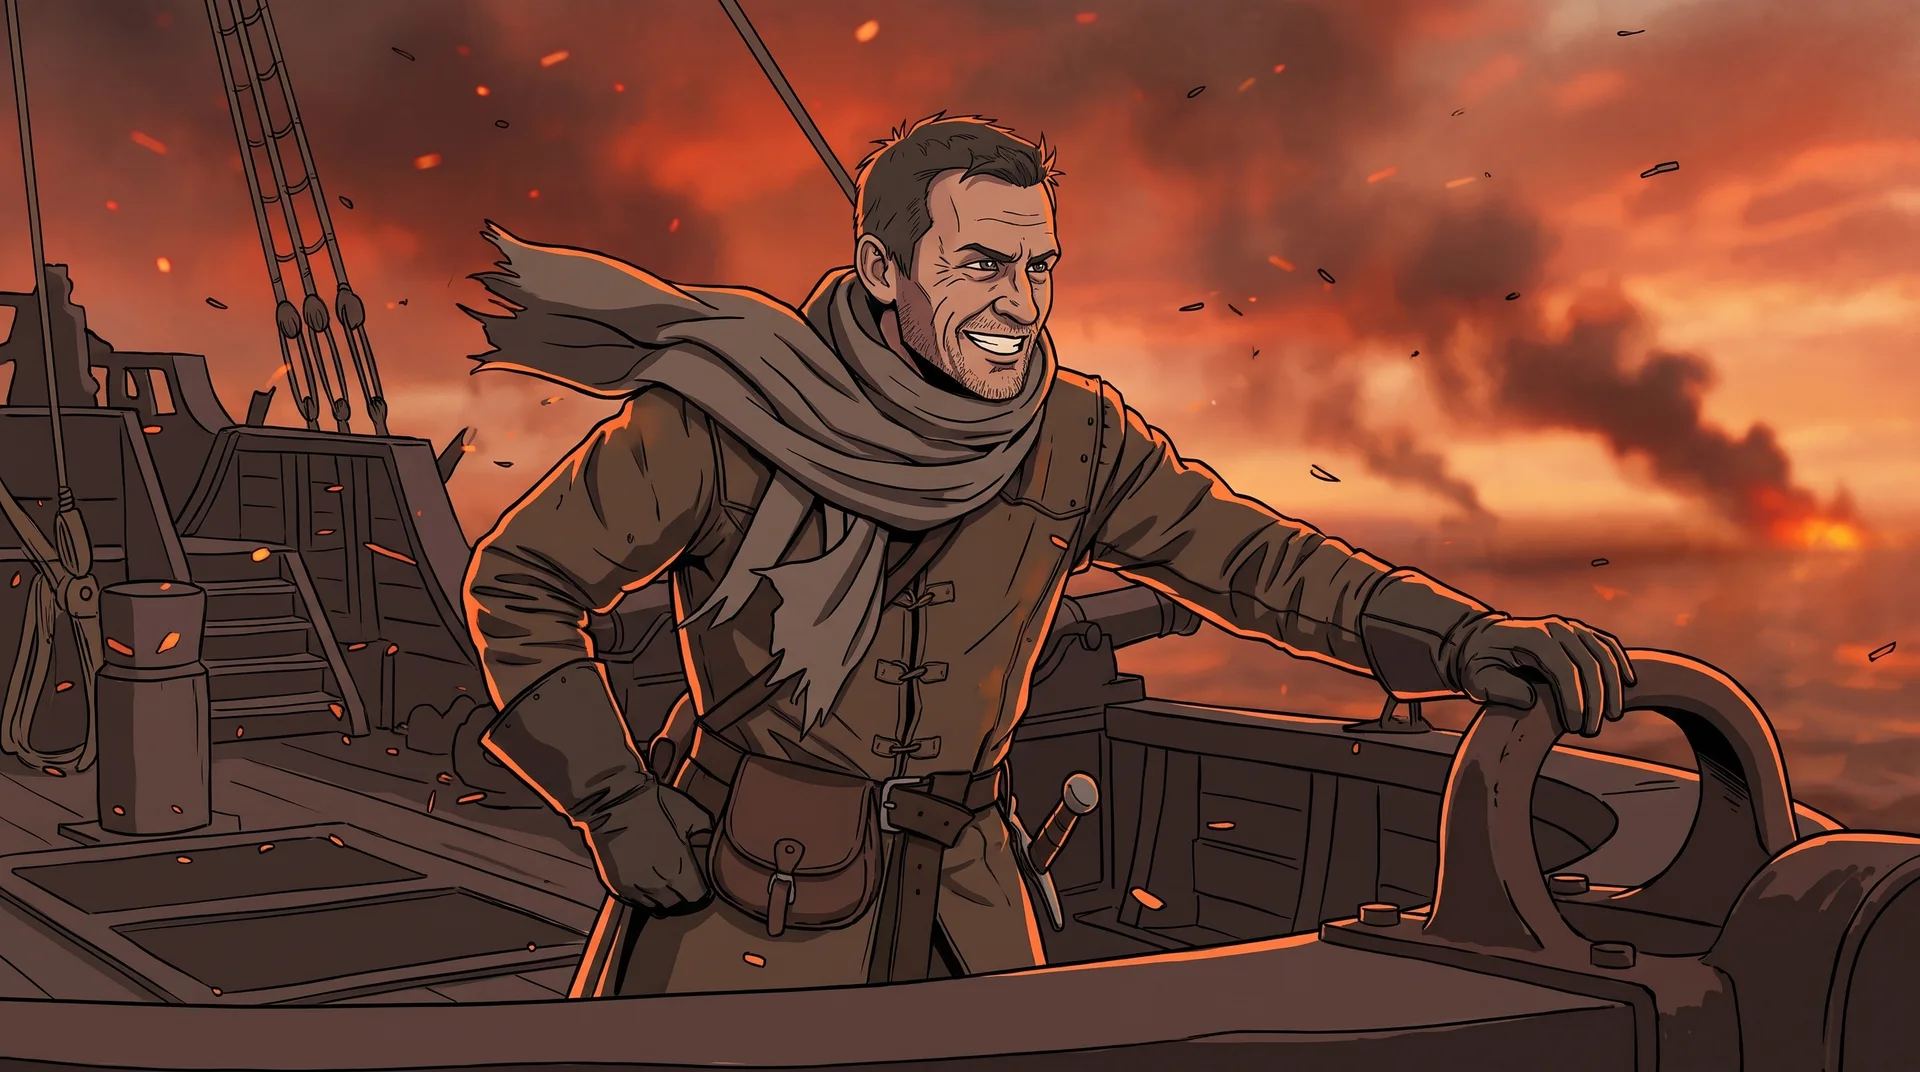
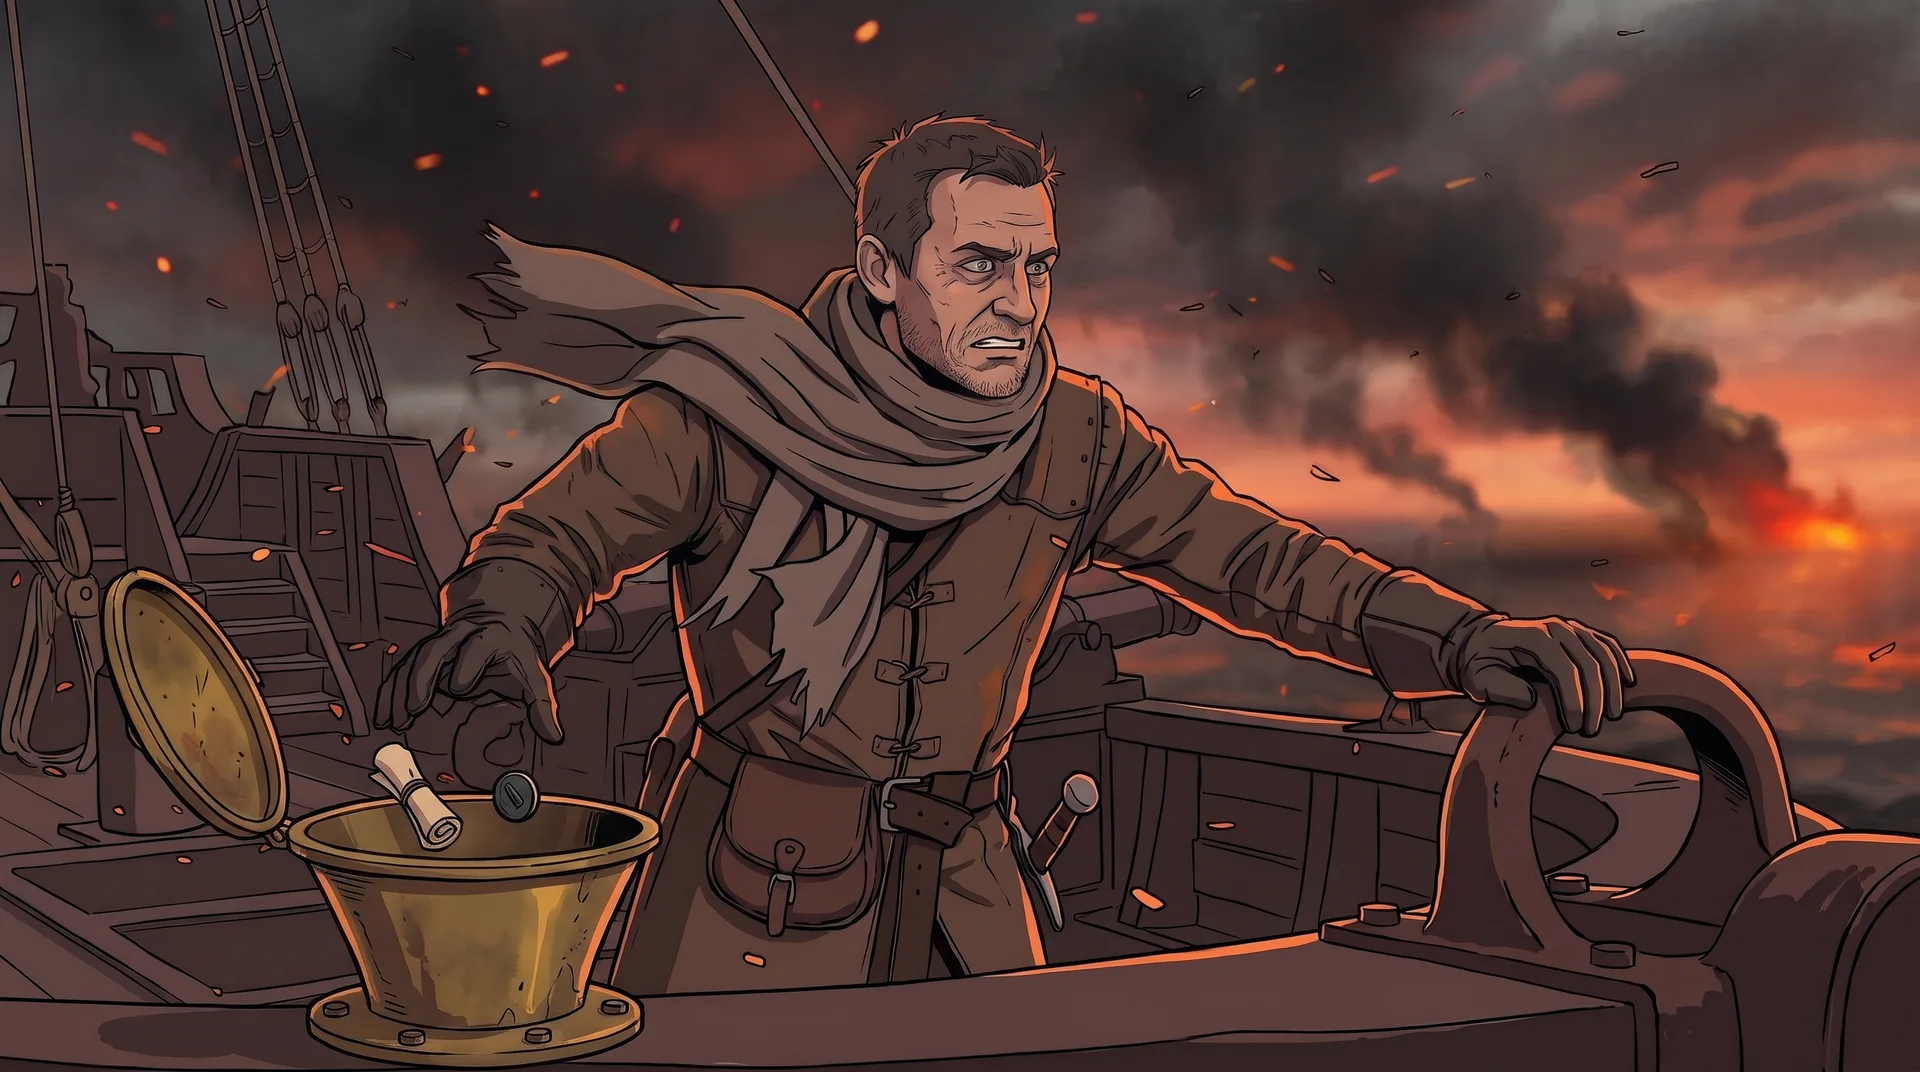
docs(dm-app): animation profile: horror tone, Veska's ponytail and lance, the chute, ship levels; face style options

diff --git a/dm-app/docs/animation-profile.md b/dm-app/docs/animation-profile.md
@@ -12,8 +12,9 @@ profile of them", "cuz then we can animate thavius kreeg".
 
 - Fight films are 2D animated, with the flow of a fast animated fantasy series for adults: fluid, the camera moves with the action, scenes change often. Photoreal read as "very static".
 - One combat round is six seconds of film.
-- Voice lines are wanted, and more of them.
+- Sound and voices: the horror of being in the Hells comes first. The first voice test had heroes shouting lines ("Fuel's dropping! Feed her, now!", "Sorry, friend.") and the DM called it "hella cringe": "less cringe voicelines more horror of the hells being there". So few words, no quips, no grins; screams, dread and the place itself carry the sound.
 - 1080p. No generic soldiers or extras.
+- Faces and finish (DM on the v2 cut and the first drawings): "the animation needs more refinement and lets move away from the AI slop faces". Each character needs a designed face of their own, drawn cleanly, and it has to hold in motion.
 - Stat block clips (dragon moves, the Mirror, the ship) stay photoreal and cinematic: the DM approved those.
 
 ## Heroes
@@ -25,13 +26,14 @@ profile of them", "cuz then we can animate thavius kreeg".
 | **Or'Henn** | Red dragonborn, wildfire druid. Under Tiamat's curse. Gold scales along the jaw **(guess, from the curse tracker)**. Wildfire spirit drawn as a fox of fire **(guess)**. | The curse stops him damaging the dragons, so he hides below deck. When he comes out he has to make a Wisdom save: show the curse working on him. *Mass cure wounds*. The breath weapon the curse gave him was a different fight, not the sky chase. |
 | **Moonkite** | Celestial the size of a small horse, grace of a great cat, silver antlers, feathered wings, pale light. | Aurora's mount. Was in the sky chase. |
 | **Ser Lucan** | Old Hellrider knight on Gondian mechanical legs of brass. | Shield and longsword. Took the breath attacks on deck. Swung at Flash after the harpoon hit. |
-| **Sgt. Veska** | Broad woman, dented splint cuirass, Hellrider tabard faded to old brick. | Was in the sky chase. |
-| **Colico Jack** | Lean, sun-scorched pilot in a long coat. | Slings soul coins into the engine for the boost. |
-| **Jeremy** | Gnome engineer, goggles, scorched leather apron, notebook on a chain. | In the engine room, watching the fuel levels and taking scrolls to feed into the engine. |
+| **Sgt. Veska** | A woman with a ponytail. Broad, dented splint cuirass, Hellrider tabard faded to old brick, scar through one eyebrow. Carries a lance. (The app's stat block says close-cropped hair and an Oath-Blade: the DM's ponytail and lance win; stat block text unchanged.) | Was in the sky chase. From her stat block: two attacks a turn, Rally the Line, Sergeant's Rebuke when someone next to her attacks an ally, heavy crossbow at range. |
+| **Colico Jack** | Lean, sun-scorched pilot in a long coat. | At the helm. Feeds the scrolls from the helm down a chute to the engine. Slings soul coins into the engine for the boost. |
+| **Jeremy** | Gnome engineer, rugged and dusty, goggles, scorched leather apron, notebook on a chain. | In the engine room, watching the fuel levels and taking scrolls to feed into the engine. |
 
 ## The Lady Vengeance
 
 - A long black iron flying galley with the harpoon at her bow. She flies bow first.
+- She is several levels large: a big ship with decks below decks. A chute runs from the helm down to the engine room.
 - **One big force cannon.** The app's stat block still says two (port and starboard): open, the DM decides whether the stat block changes.
 - A crow's nest above the ship.
 - The statue of St. Cuthbert is at the bottom of the ship, not on deck.

diff --git a/CLAUDE.md b/CLAUDE.md
@@ -270,4 +270,4 @@ past that into the body above, or into `brain/`. No secrets or customer PII: thi
 ### 2026-11-13 — Sky chase film: animated v2 cut, the DM's notes for v3, animation profile
 - **Did:** v2 of the fight film is 2D animated: `dm-app/docs/style-test/higgsfield/sky-chase-film-v2.mp4` (48 s, eight six-second rounds, `5f1fb39`; full-quality copy local in `.playwright-mcp/hf/`). Recipe: redraw each reference with a `nano_banana_2_1` 2k edit (2 credits; `toon-*.webp`, prompts in `edit-specs.json`), then one `kling4_0` `reference-to-video` clip per round (19.5 credits at 1080p; specs `v2-r1` to `v2-r8` in `film-specs.json`, driver `film.py`, job ids in `film.json`). New `dm-app/docs/animation-profile.md`: every detail the DM gave about the cast, the ship and the fight. Drawn for v3: corrected ship (crow's nest, one cannon, no statue on deck), Moonkite, Veska, Jeremy, an automaton gunner. Voice test round `sky-chase-v3-test-engine-room.mp4` (spec `v3-engine`: the lines are written in quotes in the Kling prompt).
 - **Why:** DM on v1 (photoreal, three hard cuts a round): "need more fluidity", "more combat from the characters", "replicate the flow of vox machina and animation stylization". On v2: "damn bro the last one slaps", "we are going on a very good direction", "we can make the cinematic longer", then a long list of what it must also show (in the profile, under Fights). "these small details matter a lot and lets keep tracking a profile of them", "cuz then we can animate thavius kreeg". Kling invented a ship with white sails in a wide shot: exteriors start from the ship still (image-to-video, 3 s, 9.75 credits).
-- **Open:** v3 plan is 14 rounds (84 s): keep v2 rounds 1, 2, 5, 6, 7, 8, render seven more new rounds plus three short inserts, about 235 credits with retakes and voices. Balance 98: the DM was told about 140 more are needed, and about 180 for Dumal after. The DM has not judged the voice test or the new drawings. Claude cannot hear the clips: the DM judges every voice. The app's ship stat block says two force cannons, the DM says one big cannon (`campaign-ship.js` unchanged, DM to decide). Film not in the app yet (planned home: an `img` block with `video` in the S13 scene `sky-chase`). Order after the film: Dumal's attacks and transformations, then Thavius Kreeg.
+- **Open:** v3 plan is 14 rounds (84 s): keep v2 rounds 1, 2, 5, 6, 7, 8, render seven more new rounds plus three short inserts, about 235 credits with retakes and voices. Balance 86: the DM was told about 150 more are needed, and about 180 for Dumal after. The voice test was "hella cringe": "less cringe voicelines more horror of the hells being there", so no hero barks. "the animation needs more refinement and lets move away from the AI slop faces": a cleaner redraw through an edit barely changed the faces, so `face-styles.webp` offers three face styles (A flat TV animation, B painterly, C dark anime) and the DM has to pick one before any more video. Proposed to the DM: draw a key frame for every shot first (2 credits), get it approved, then animate from that frame (image-to-video), so details and faces are checked before the 19.5-credit render. Claude cannot hear the clips: the DM judges every voice. The app's ship stat block says two force cannons, the DM says one big cannon (`campaign-ship.js` unchanged, DM to decide). Film not in the app yet (planned home: an `img` block with `video` in the S13 scene `sky-chase`). Order after the film: Dumal's attacks and transformations, then Thavius Kreeg.
